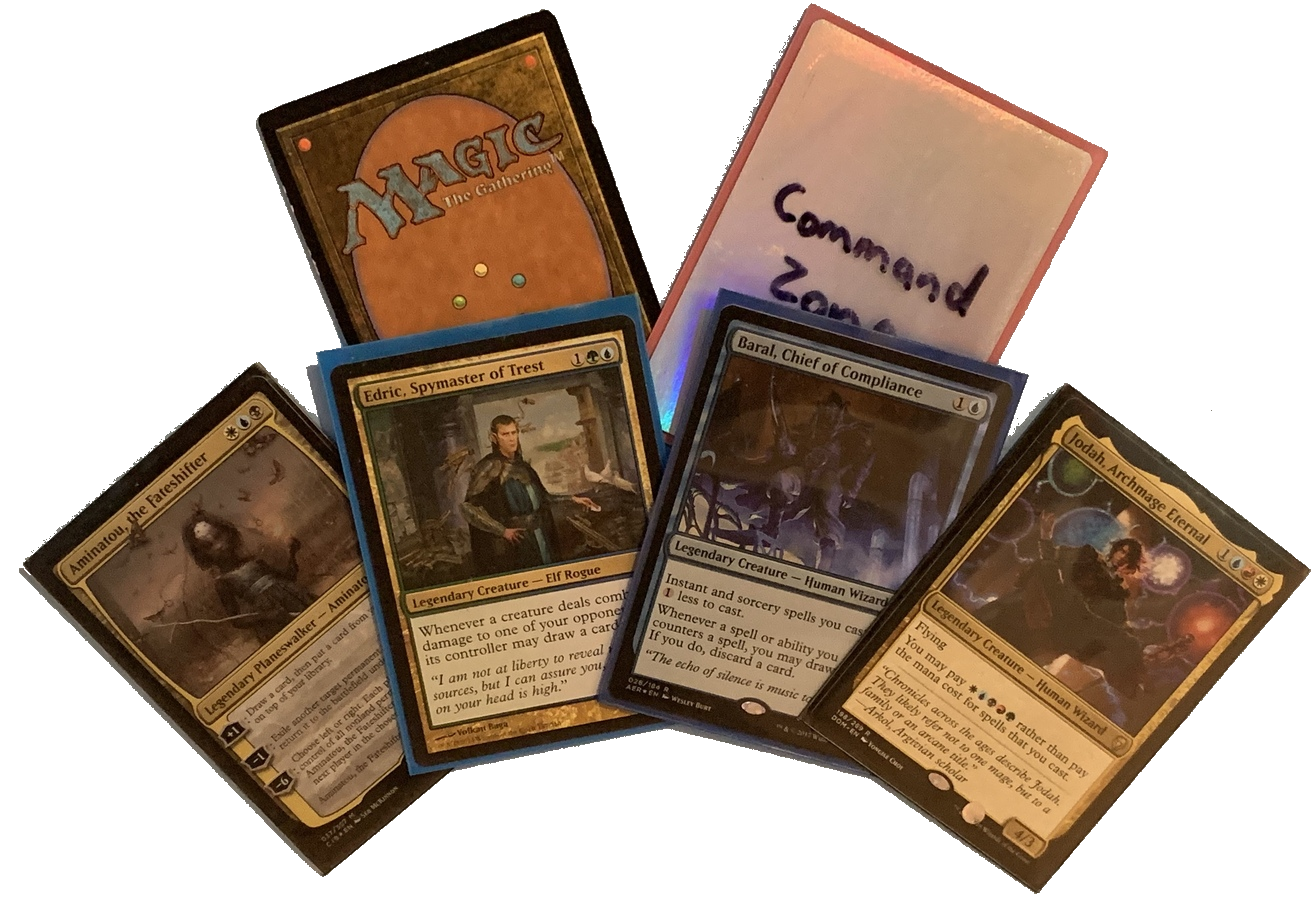
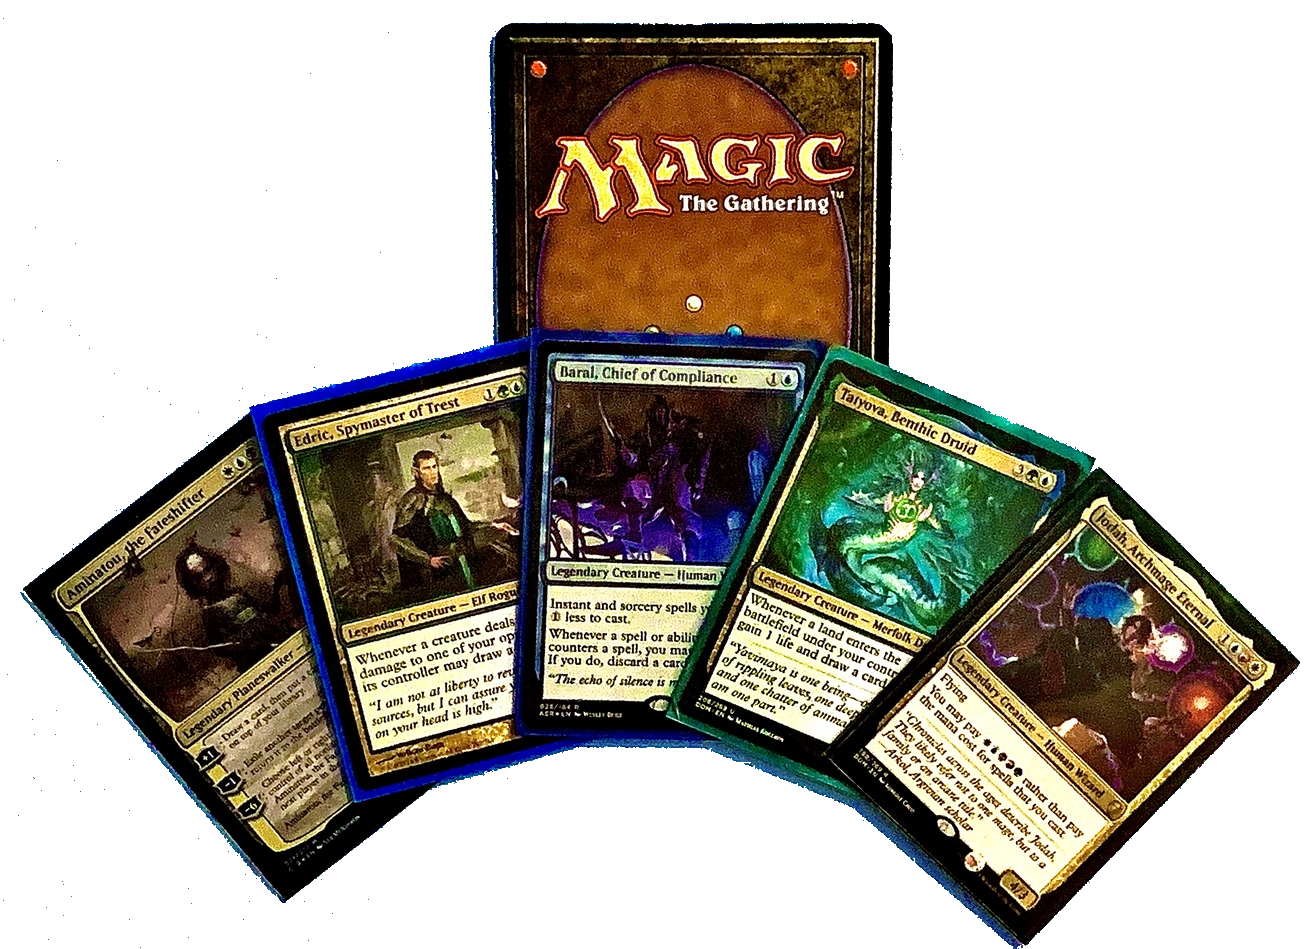
added tatyova to website

diff --git a/index.html b/index.html
@@ -129,7 +129,8 @@
                         <a href="https://tappedout.net/mtg-decks/aminatou-the-fateshifter-edh-deck-1/">Aminatou The Fateshifter</a>, 
                         <a href="https://tappedout.net/mtg-decks/edric-spymaster-of-trest-edh-deck/?cb=1589273197">Edric Spymaster of Trest</a>,
                         <a href="https://tappedout.net/mtg-decks/baral-chief-of-compliance-edh-deck/?cb=1589272995">Baral Chief of Compliance</a>,
-                        <a href="https://tappedout.net/mtg-decks/jodah-archmage-eternal-edh-deck-3/?cb=1589273076">Jodah Archmage Eternal</a> 
+                        <a href="https://tappedout.net/mtg-decks/jodah-archmage-eternal-edh-deck-3/?cb=1589273076">Jodah Archmage Eternal</a>, and 
+                        <a href="https://tappedout.net/mtg-decks/tatyova-benthic-druid-edh-deck-1/?cb=1589509656">Tatyova, Benthic Druid</a>
                     . The deck I am playing for standard on arena is a <a href="https://www.mtggoldfish.com/articles/budget-magic-50-tour-de-france-standard">Boros Cycling</a> deck. Each of the decklists are linked.
                 </p>
             </div>

diff --git a/res/css/style.css b/res/css/style.css
@@ -256,6 +256,11 @@ header {
 
 #mtg-description img {
     width: 50%;
+    transition: content 1s;
+}
+
+#mtg-description img:hover {
+    content: url('../imgs/about-me//mtg_covered.png');
 }
 
 
